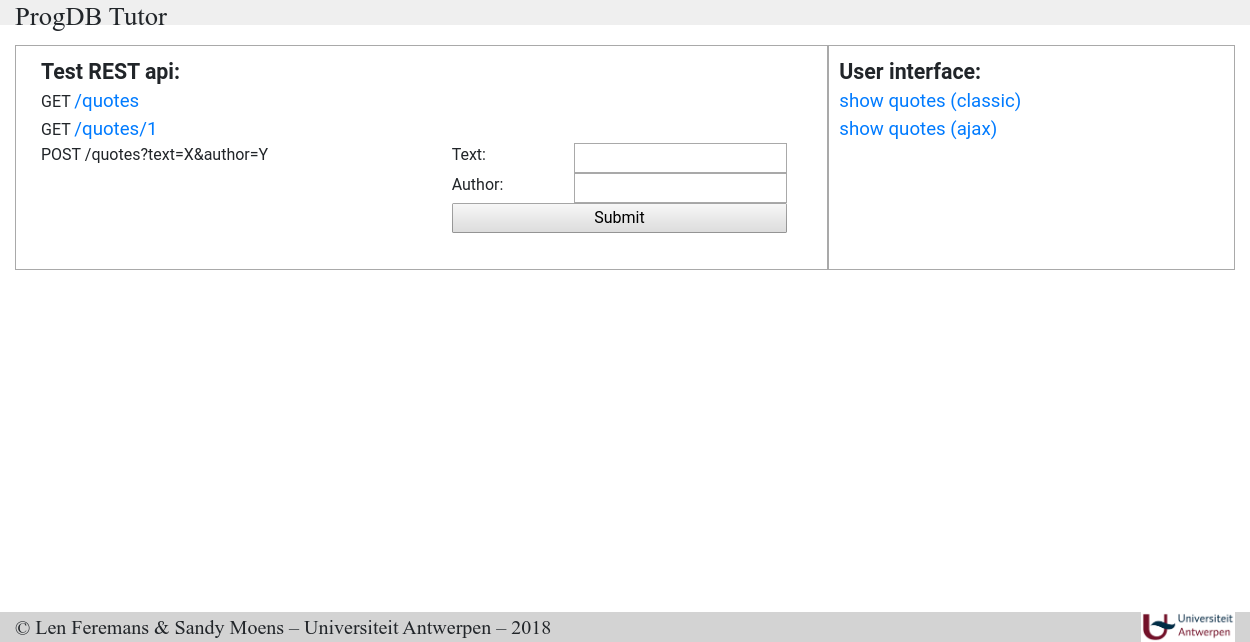
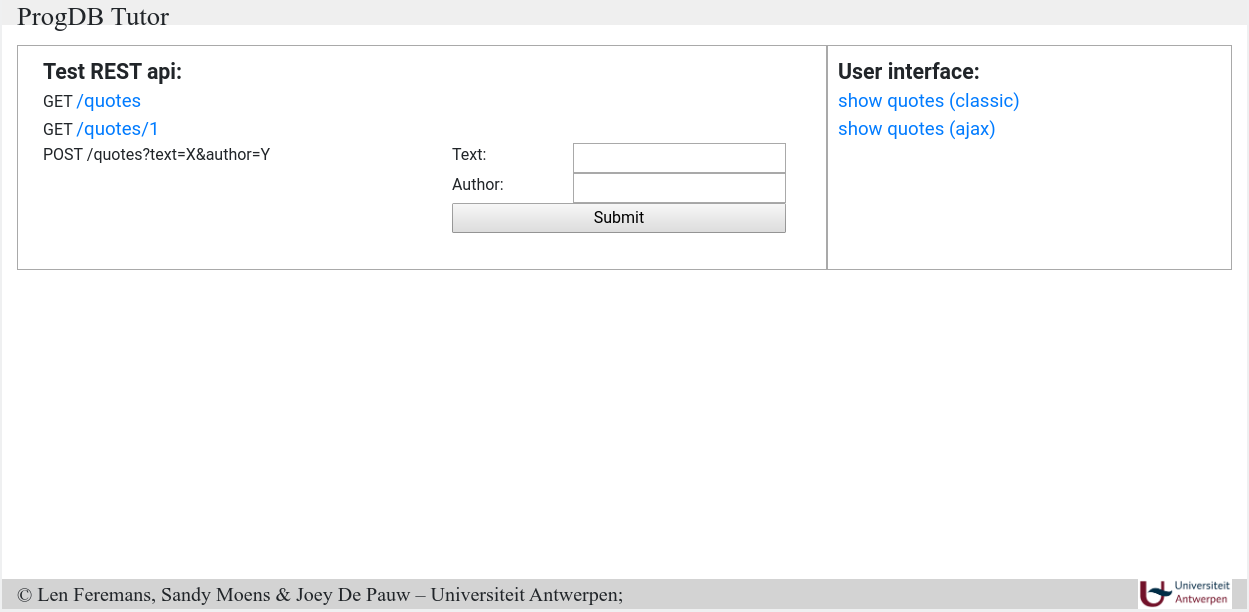
updated images

Changed region(s): [[0.0, 0.9314, 1.0, 1.0], [0.0, 0.0, 0.968, 0.2794], [0.0312, 0.2173, 0.9992, 0.4346]]

diff --git a/src/ProgDBTutor/templates/footer.html b/src/ProgDBTutor/templates/footer.html
@@ -1,6 +1,6 @@
 <div class="fixed-bottom footer row">
     <div class="col-md-8">
-        &copy; Len Feremans, Sandy Moens &amp; Joey De Pauw &ndash; Universiteit Antwerpen &ndash; 2018
+        &copy; Len Feremans, Sandy Moens &amp; Joey De Pauw &ndash; Universiteit Antwerpen;
     </div>
     <div class="col-md-4">
         <img src="{{ url_for('static',filename='ua_logo.png') }}" style="float: right; height:30px;"/>

diff --git a/README.md b/README.md
@@ -71,7 +71,9 @@ nosetests
 
 ### Result ###
 ![index](https://github.com/joeydp/PPDB-Template-App/blob/master/doc/dbtutor_index.png?raw=true "Index page")
+
 ![rest](https://github.com/joeydp/PPDB-Template-App/blob/master/doc/dbtutor_rest.png?raw=true "Output rest service")
+
 ![quotes](https://github.com/joeydp/PPDB-Template-App/blob/master/doc/dbtutor_quotes.png?raw=true "Viewing and adding quotes")
 
 ### Code ###
